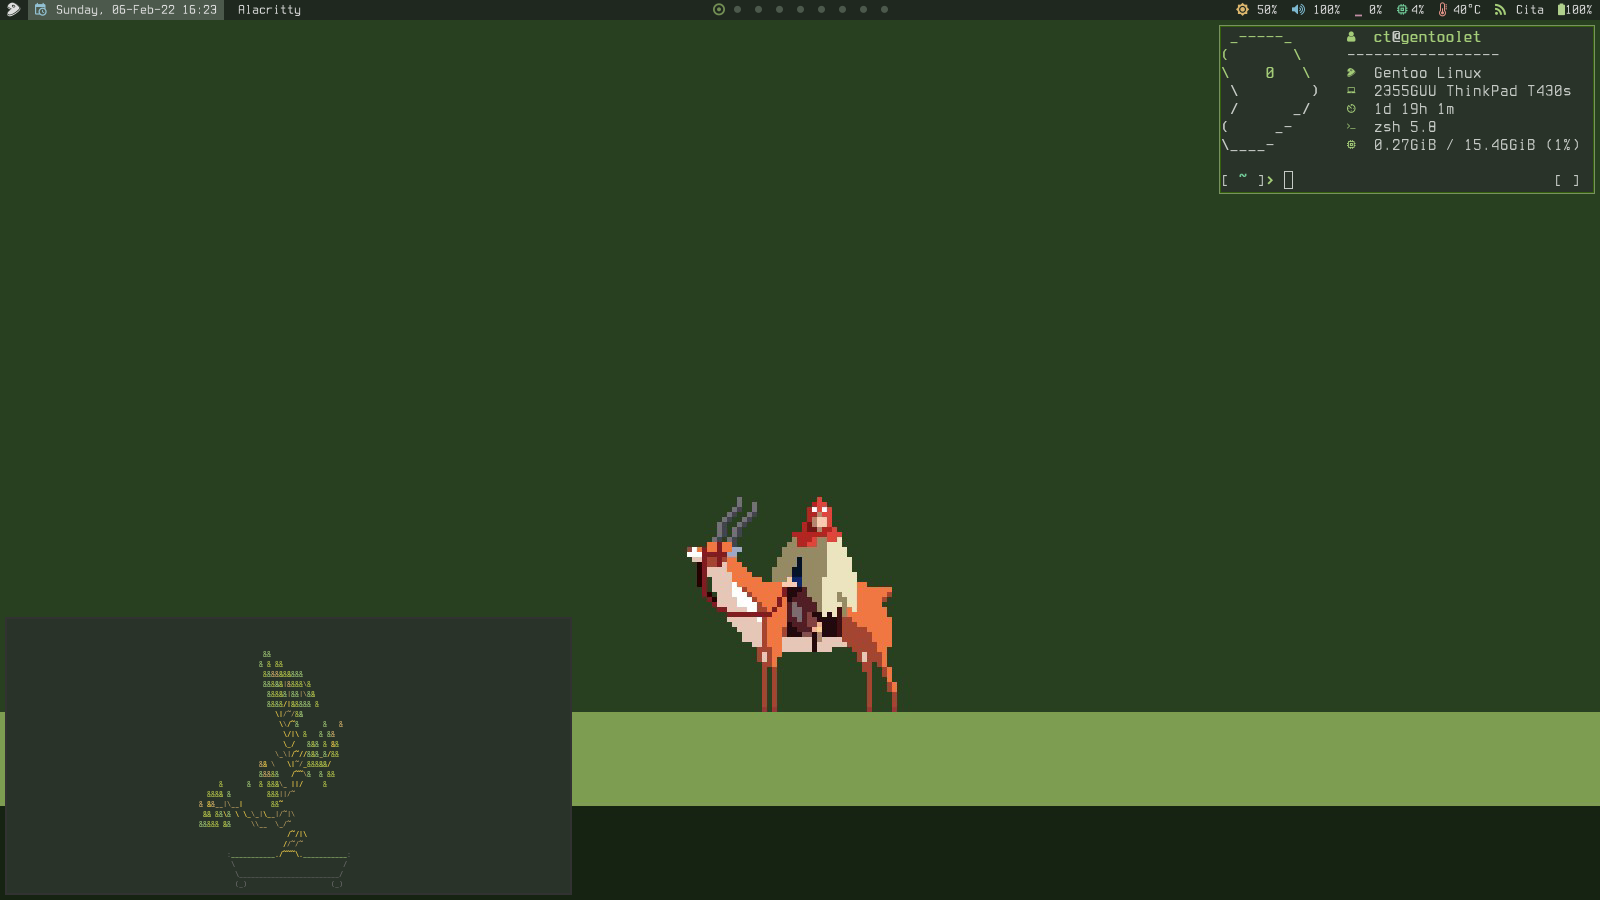
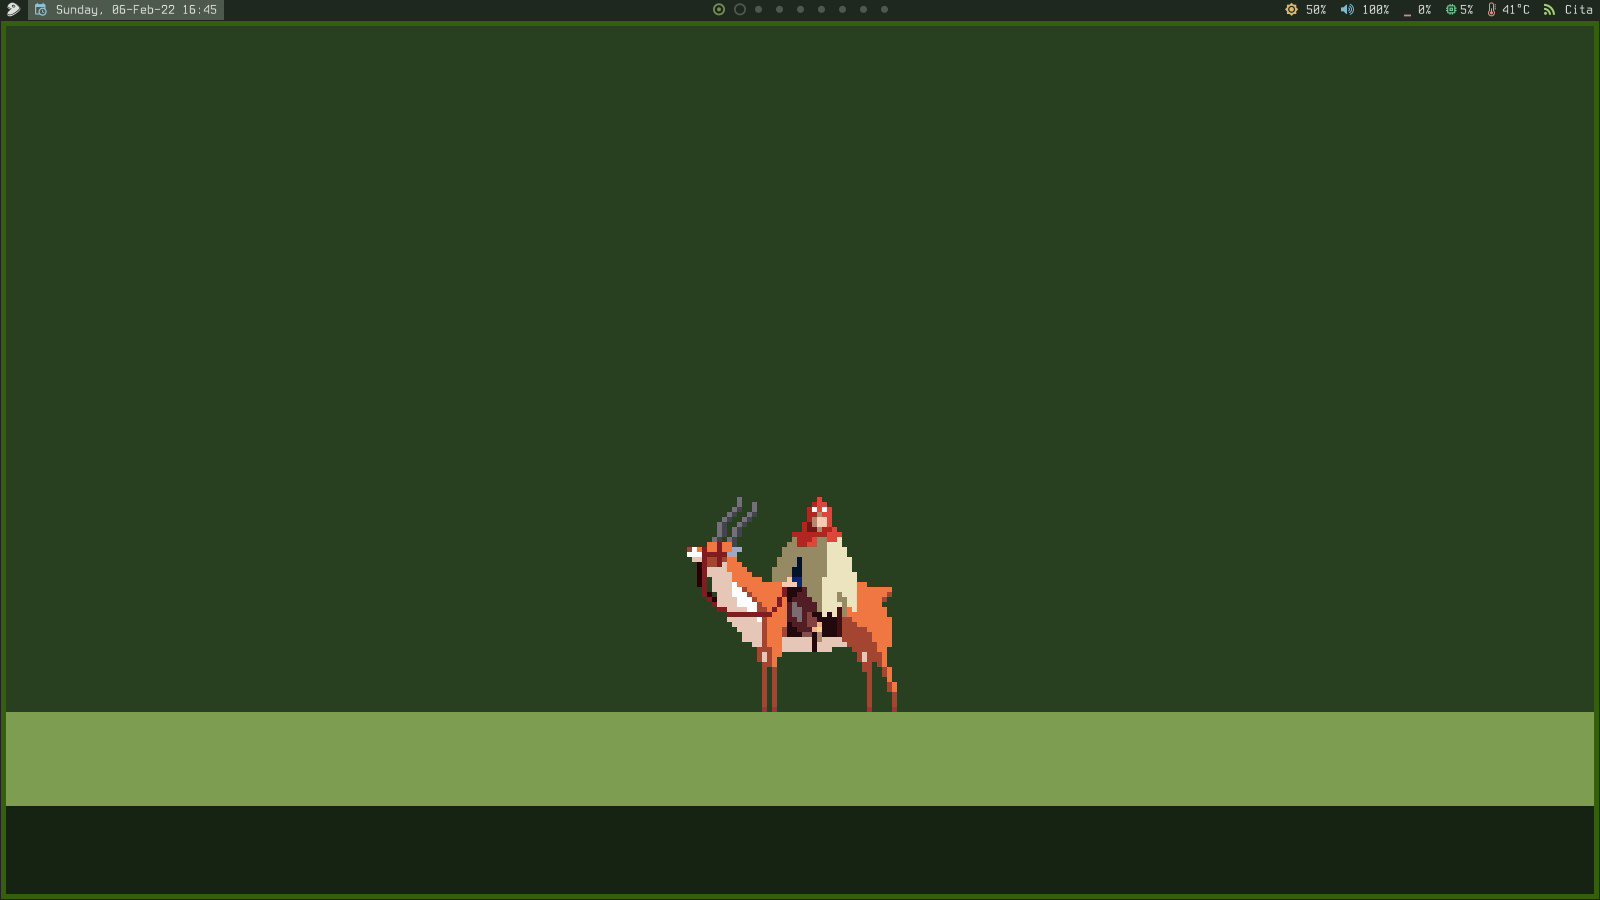
Add new image preview

Changed region(s): [[0.0, 0.0, 1.0, 1.0], [0.75, 0.1867, 0.8125, 0.2178]]

diff --git a/README.md b/README.md
@@ -1,7 +1,9 @@
 # My dotfiles repository.
 
-![home](img/home.png)
 ![home1](img/home1.png)
+![home2](img/home2.png)
+![home3](img/home3.png)
+![home4](img/home4.png)
 
 ## Details:
 + **OS**: [Gentoo](https://www.gentoo.org/)
